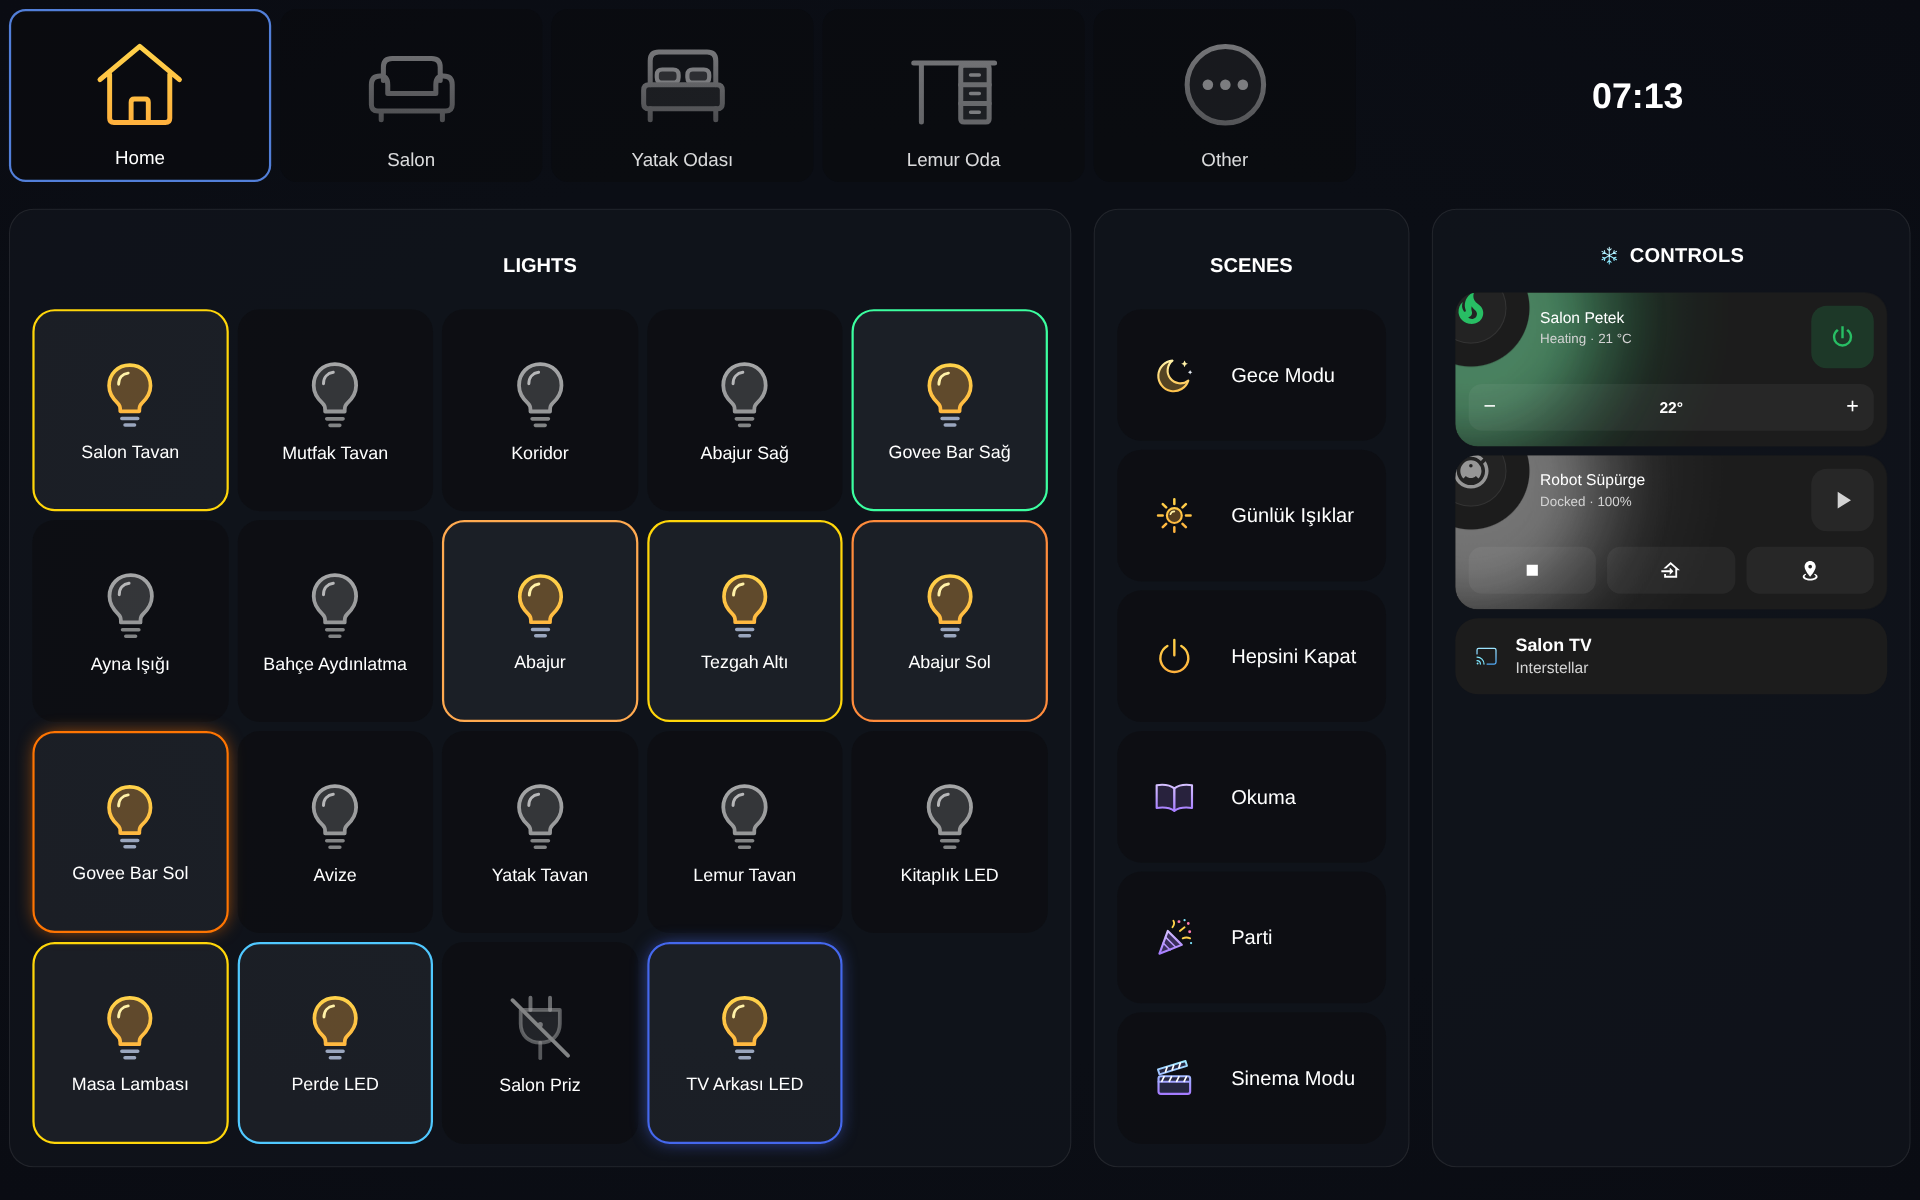
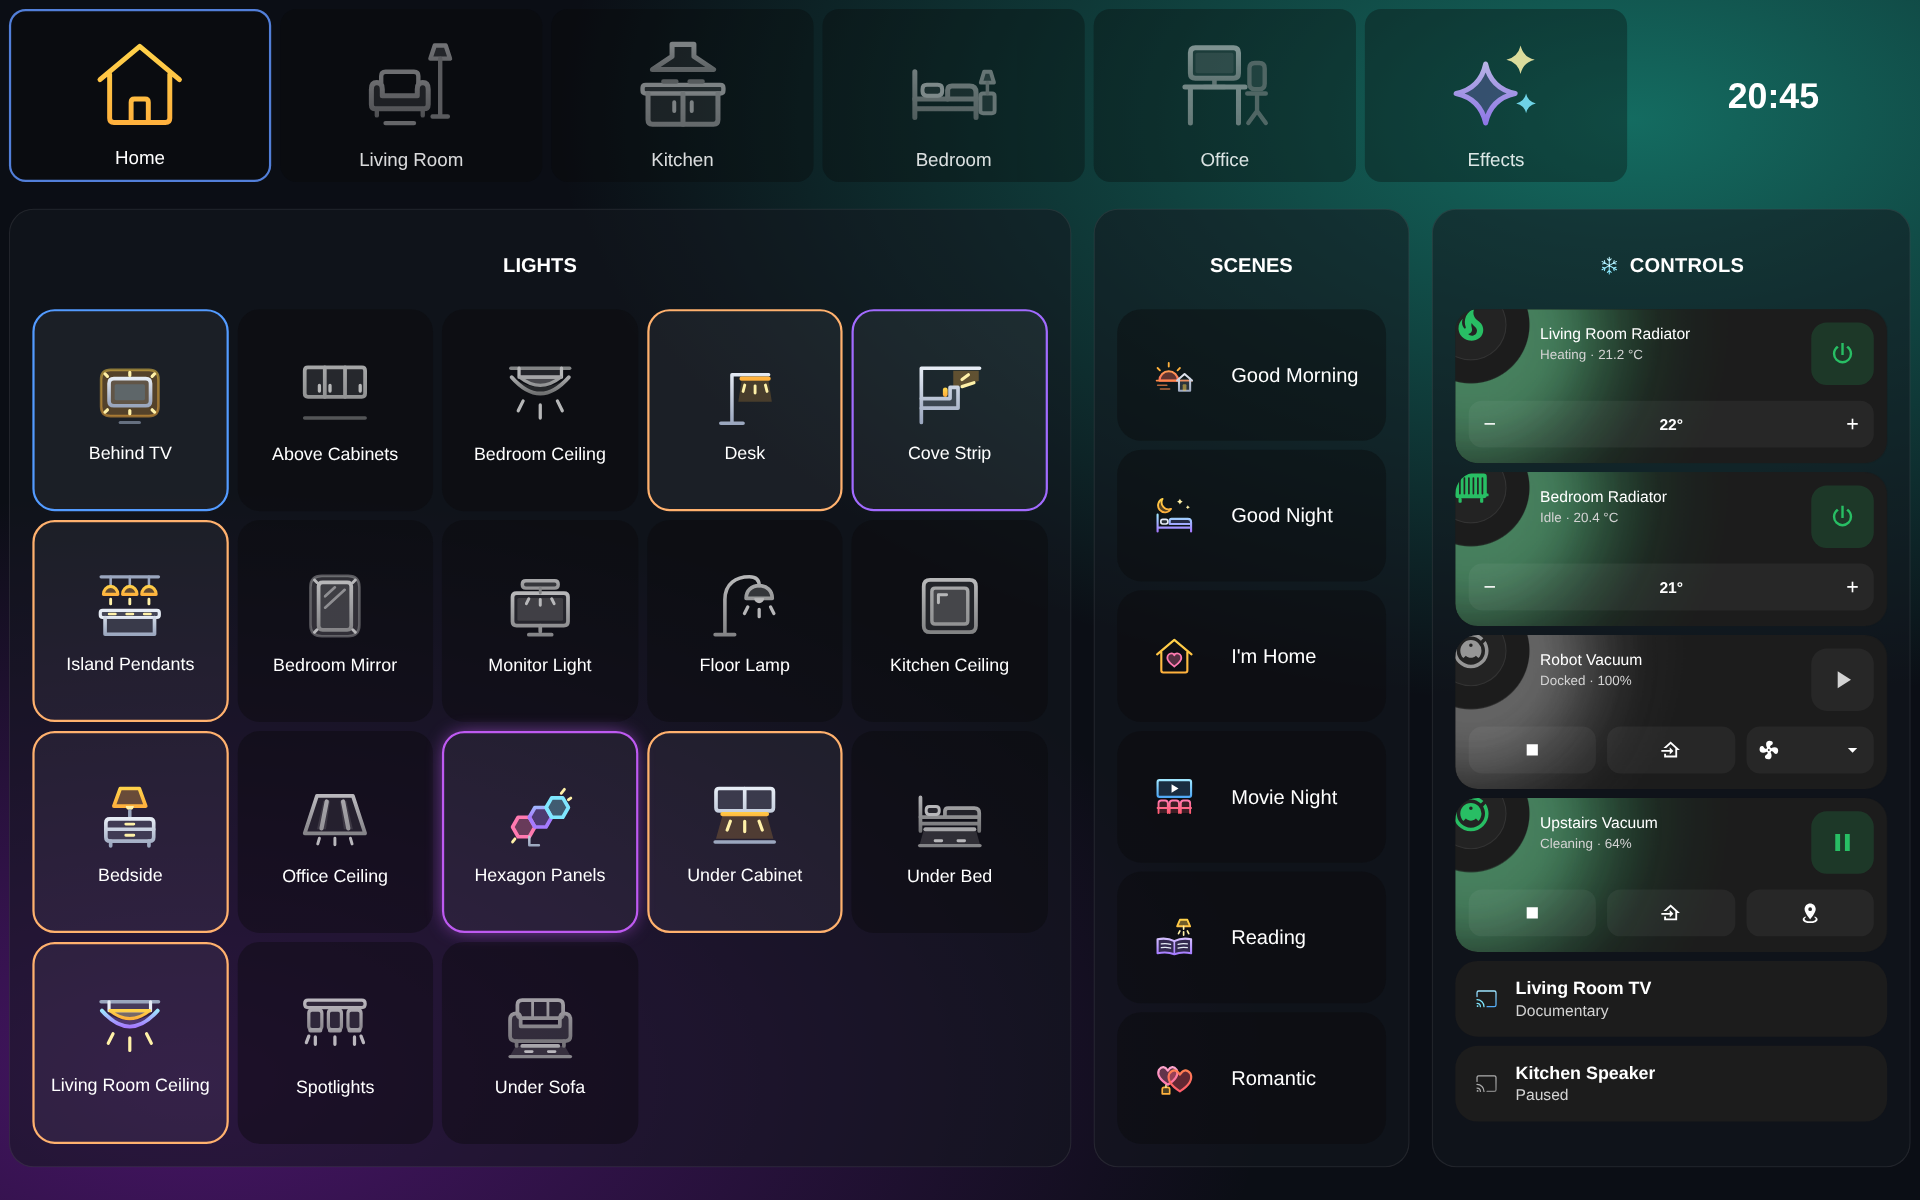
docs: görseller güncel sürümle yeniden çekildi, README'de Stil seç bölümü
- Bütün ekran görüntüleri ve hareketli görseller (TR ve EN) örnek evle: panoya özel renkli simgeler, senaryolar, iklim ve süpürgeler
- Telefon görseli üç ekran: altta kategoriler, sade iklim satırı, alttan ışık penceresi
- Yeni Otomatik kur görseli; Ayarlar görselinin yerine Stil seç
- README: görünüm ayarları Stil seç bölümünde, telefon seçenekleri Stil seç'te, arka plan varsayılanı Efekt

diff --git a/README.md b/README.md
@@ -150,22 +150,32 @@ Sol menüdeki **Lemur Home Dashboard** (yalnızca yöneticiler görür). Üstte 
 
 ### Ayarlar
 
-Sağ üstteki **Ayarlar** evdeki bütün tabletlere uygulanır:
+Sağ üstteki **Ayarlar** evdeki bütün tabletlere uygulanır. Görünümle ilgili olanlar (arka plan, ışık ve iklim görünümü, telefon düzeni, Efektler düğmesi) **Stil seç**'tedir; Ayarlar'daki kart oraya götürür.
 
 - *Sürüm ve güncelleme:* en üstte; yüklü sürüm, yenilikler ve **Güncellemeleri denetle**. Yeni sürüm varsa HACS ile buradan kurulur, ardından Home Assistant yeniden başlatılır.
 - *Dil:* otomatik (Home Assistant'ın dili), Türkçe ya da İngilizce.
 - *Mevsim:* iklim bölümünde yazın klimalar, kışın petekler. Otomatik: Mayıs-Eylül yaz.
-- *Arka plan:* koyu (varsayılan), siyah, istediğin bir renk, efekt renkleri ya da kendi resmin (`/local/zemin.jpg` gibi bir adres). Efekt renkleri Light Effect Card'ın efekt paletleri (Kutup ışığı, Ateş, Gün batımı, Okyanus, Galaksi ve 25 tane daha): koyu zeminde yumuşak bir renk ışıltısı. Light Effect Card kurulu olmasa da seçilebilir.
 - *Simge stili:* Otomatik (varsayılan; kapalı cihazlar ve seçili olmayan odalar gri, açıklar renkli), Renkli (hepsi renkli), Düz (hepsi gri) ya da Tek renk (çizimler tek tona çevrilir: kapalılar gri, açıklar seçtiğin renkte; istersen açık ışık lambanın kendi renginde, senaryo düğmesi kendi renginde). Simge seti ayrı bir dosyadır; bir kez indirilir, tarayıcı saklar.
-- *İklim ve süpürge kartları:* **Halo** (büyük, halkalı kartlar) ya da **Sade** (her cihaz tek satır: iklimde durum, sıcaklık ve hedef, süpürgede durum, pil, başlat ve istasyon; karta dokununca genişler: hedef − +, aç/kapat, mod, fan, salınım ya da durdur, bul, emiş gücü; yalnız cihazın desteklediği düğmeler görünür).
 - *Üst şerit:* Oda düğmelerinin boyutu (varsayılan 235 × 155) ve **Kolona hizala**: düğmeler seçilen kolonun sağ kenarında biter, aradaki alanı eşit paylaşır; her ekran boyutunda aynı hizada kalır. Light Effect Card kuruluysa Efektler düğmesi hizalı alana alınabilir ya da saatin yanında kalır.
 - *HA teması:* açılır pencerelerin kullanacağı Home Assistant teması (boş bırakılabilir).
 - *Üst barı gizle / Yan menüyü gizle:* yalnızca bu panoda Home Assistant'ın başlık çubuğu ve sol menüsü görünmez.
 - *Kanvas (Gelişmiş):* tasarım genişliği ve referans yüksekliği; pano ekrana bu oranla ölçeklenir.
 - *Işığa basılı tutunca:* Işık penceresi (varsayılan), HA penceresi ya da (Light Effect Card kuruluysa) efekt ekranı.
-- *Lemur Light Effect Card:* kurulu olup olmadığı ve üst şeritteki Efektler düğmesi.
+- *Lemur Light Effect Card:* kurulu olup olmadığı (Efektler düğmesi Stil seç'te).
 - *Sorun bildir:* sürüm ve cihaz bilgisiyle GitHub'da kayıt açar (oda, cihaz ya da kişi adı eklenmez).
 - *Yedek:* sekmeler, bölümler, ayarlar ve hayvanlar tek dosyada indirilir; geri yüklemeden önce onay sorulur.
+
+### Stil seç
+
+Üst çubukta, Ayarlar'ın yanında. Solda önizleme (kendi panon ya da örnek ev, tablet ya da telefon), sağda büyük seçenekler; her seçim önizlemede anında görünür, **Uygula** hepsini birden kaydeder. Sekmelere dokunmaz, beğenmezsen geri al.
+
+- *Tablet:* ışıklar **Karo** ya da **Kaydırmalı çubuk**; iklim ve süpürge kartları **Halo** (büyük, halkalı kartlar) ya da **Sade** (her cihaz tek satır; karta dokununca genişler: hedef − +, aç/kapat, mod, fan, salınım ya da durdur, bul, emiş gücü).
+- *Telefon:* gezinme (altta kategoriler, altta odalar, üstte odalar), ışıklar (tabletteki gibi, karo, tek sıra) ve ışık penceresinin alttan mı ortada mı açılacağı.
+- *Arka plan:* Efekt renkleri (varsayılan Meditasyon; Kutup ışığı, Ateş, Gün batımı, Okyanus ve 25 tane daha), Koyu, Siyah, istediğin bir renk ya da kendi resmin (`/local/zemin.jpg` gibi bir adres).
+- *Işık efektleri:* Light Effect Card kuruluysa Efektler düğmesi açılıp kapanır; kurulu değilse ne işe yaradığı ve nasıl kurulduğu anlatılır.
+- **Işık penceresi** düğmesi önizlemede bir ışığın penceresini açar.
+
+![Stil seç](https://raw.githubusercontent.com/mendebur-lemur/lemur-home-dashboard/main/docs/images/tr/settings.png)
 
 ## Işık penceresi
 
@@ -183,7 +193,7 @@ Pencere geri tuşu, Esc ya da ✕ ile kapanır. Ayarlardan Home Assistant'ın ke
 
 Ekran 700 pikselden darsa, telefon yatay tutulmuşsa (yükseklik 500 pikselden az) ya da tablet dikey tutulmuşsa pano telefon düzenine geçer: oda düğmeleri yana kayan bir şerit olur, bölümler alt alta dizilir, senaryolar iki sütunda durur, sayfa aşağı kayar. Karo sayısı ekranın genişliğine göre artar (telefonda 3, dikey tablette 6). Işık bölümünü **Telefonda otomatik** yaparsan telefonda ışıklar iki sütun kaydırmalı çubuk olur. Ayrı bir pano gerekmez; aynı pano tablette tablet, telefonda telefon düzeniyle açılır.
 
-**Ayarlar → Telefon** seçenekleri birbirinden bağımsızdır, istediğin birleşimi seçebilirsin. Tablet hiçbirinden etkilenmez:
+**Stil seç → Telefon** seçenekleri birbirinden bağımsızdır, istediğin birleşimi seçebilirsin. Tablet hiçbirinden etkilenmez:
 
 - *Gezinme:* **Altta kategoriler** (varsayılan), **Altta odalar** (oda düğmeleri ekranın altında, uygulama gibi; üstte sekmenin adı ve saat) ya da **Üstte odalar** (yukarıdaki eski düzen). **Altta kategoriler** (altta Işıklar, İklim, Senaryolar ve Light Effect Card kuruluysa Efektler). Kategori sayfası bütün sekmelerin o türdeki bölümlerini sekme adlarıyla tek sayfada gösterir. Işıklarda üstte oda şeridi vardır; odalar arasında sağa sola kaydırarak geçilir, **Tümü** bütün evin ışıklarıdır (aynı lamba iki sekmede varsa bir kez).
 - *Işıklar:* **Bölümdeki gibi**, hep **Karo** ya da **Tek sıra** (her ışık bir satır: dokun aç/kapat, sağa sola kaydır parlaklık).
@@ -191,13 +201,13 @@ Ekran 700 pikselden darsa, telefon yatay tutulmuşsa (yükseklik 500 pikselden a
 
 Bu seçenekler yönetim panelindeki **Telefon** önizlemesinde de görünür.
 
-<img src="https://raw.githubusercontent.com/mendebur-lemur/lemur-home-dashboard/main/docs/images/tr/phone.png" alt="Telefon düzeni" width="320">
+![Telefon: altta kategoriler, sade iklim satırları, alttan açılan ışık penceresi](https://raw.githubusercontent.com/mendebur-lemur/lemur-home-dashboard/main/docs/images/tr/phone.png)
 
 ## Işık efektleri (isteğe bağlı)
 
 [Lemur Light Effect Card](https://github.com/mendebur-lemur/lemur-light-effect-card) ayrıca kuruluysa pano onu kendiliğinden tanır, yönetim paneli de ilk açılışta haber verir:
 
-- **Üst şeritte Efektler:** Oda düğmelerinin yanına kendiliğinden gelir; dokununca efekt ekranı o sekmenin odasıyla tam ekran açılır. Ayarlardan kapatılabilir.
+- **Üst şeritte Efektler:** Oda düğmelerinin yanına kendiliğinden gelir; dokununca efekt ekranı o sekmenin odasıyla tam ekran açılır. Stil seç'ten kapatılabilir.
 - **Efekt ekranı düğmesi:** İstersen senaryo bölümüne de eklenir.
 - **Efekt düğmeleri:** Senaryoya düğme eklerken seçicide **Işık efektleri** grubunda odanın efektleri listelenir; seçilen efekt tek dokunuşla başlar. **Efekti durdur** düğmesi de eklenebilir.
 - **Oynayan efekt görünür:** Odada efekt oynarken o odanın ışık karoları efektin renkleriyle parlar, efektin düğmesi yanar.
@@ -228,8 +238,8 @@ Pano, tarayıcının ve telefon uygulamasının sakladığı eski sayfa kopyalar
 | Ev sekmesi | Oda sekmesi |
 |---|---|
 | ![Ev sekmesi](https://raw.githubusercontent.com/mendebur-lemur/lemur-home-dashboard/main/docs/images/tr/dashboard.png) | ![Oda sekmesi](https://raw.githubusercontent.com/mendebur-lemur/lemur-home-dashboard/main/docs/images/tr/room.png) |
-| **Yönetim paneli** | **Ayarlar** |
-| ![Yönetim paneli](https://raw.githubusercontent.com/mendebur-lemur/lemur-home-dashboard/main/docs/images/tr/admin.png) | ![Ayarlar](https://raw.githubusercontent.com/mendebur-lemur/lemur-home-dashboard/main/docs/images/tr/settings.png) |
+| **Yönetim paneli** | **Otomatik kur** |
+| ![Yönetim paneli](https://raw.githubusercontent.com/mendebur-lemur/lemur-home-dashboard/main/docs/images/tr/admin.png) | ![Otomatik kur](https://raw.githubusercontent.com/mendebur-lemur/lemur-home-dashboard/main/docs/images/tr/auto-setup.png) |
 
 ## Lemur ailesi
 

diff --git a/README.en.md b/README.en.md
@@ -150,22 +150,32 @@ Lights that are on get a frame in their own colour; unavailable devices are dimm
 
 ### Settings
 
-**Settings** at the top right apply to every tablet in the house:
+**Settings** at the top right apply to every tablet in the house. The look settings (background, light and climate look, phone layout, the Effects button) are in **Choose a style**; the card in Settings takes you there.
 
 - *Version and updates:* at the top; installed version, what's new and **Check for updates**. A new version is installed from here through HACS, then Home Assistant restarts.
 - *Language:* automatic (Home Assistant's language), Turkish or English.
 - *Season:* air conditioners in summer, radiators in winter in the climate section. Automatic: May-September is summer.
-- *Background:* dark (default), black, any colour, effect colours, or your own image (an address like `/local/background.jpg`). Effect colours are Light Effect Card's effect palettes (Aurora, Fire, Sunset, Ocean, Galaxy and 25 more): a soft colour glow on a dark background. They can be chosen even without Light Effect Card.
 - *Icon style:* Automatic (default; devices that are off and rooms that are not selected are grey, the rest colourful), Colourful (all colourful), Flat (all grey) or Single colour (the drawings turn into one tone: devices that are off are grey, devices that are on are in the colour you pick; optionally a light that is on shows the lamp's own colour, and a scene button its own colour). The icon set is a separate file, downloaded once and kept by the browser.
-- *Climate and vacuum cards:* **Halo** (the large cards with a ring) or **Simple** (each device one row: for climate the status, temperature and target, for vacuums the status, battery, start and dock; tap the card to expand it: target − +, power, mode, fan, swing or stop, locate, suction; only the buttons the device supports are shown).
 - *Top bar:* Room button size (default 235 × 155) and **Align to a column**: the buttons end at the right edge of the chosen column and share the space evenly; they stay aligned on every screen size. With Light Effect Card installed, the Effects button can join the aligned area or stay next to the clock.
 - *HA theme:* the Home Assistant theme used by dialogs (can be left empty).
 - *Hide top bar / Hide sidebar:* Home Assistant's header and sidebar are hidden on this dashboard only.
 - *Canvas (Advanced):* design width and reference height; the dashboard scales to the screen with this ratio.
 - *Holding a light:* Light window (default), HA dialog or (with Light Effect Card) the effect screen.
-- *Lemur Light Effect Card:* whether it is installed, and the Effects button in the top bar.
+- *Lemur Light Effect Card:* whether it is installed (the Effects button is in Choose a style).
 - *Report a problem:* opens a GitHub issue with the version and device details (no room, device or person names).
 - *Backup:* tabs, sections, settings and pets in one file; restoring asks first.
+
+### Choose a style
+
+In the top bar, next to Settings. A preview on the left (your own dashboard or the example home, tablet or phone), large options on the right; every choice shows in the preview right away, and **Apply** saves them all at once. Your tabs are not touched, and undo takes it back.
+
+- *Tablet:* lights as **Tiles** or **Slider bars**; climate and vacuum cards **Halo** (the large cards with a ring) or **Simple** (each device one row; tap the card to expand it: target − +, power, mode, fan, swing or stop, locate, suction).
+- *Phone:* navigation (categories at the bottom, rooms at the bottom, rooms on top), lights (same as tablet, tiles, one per row) and whether the light window opens from the bottom or in the middle.
+- *Background:* effect colours (Meditation by default; Aurora, Fire, Sunset, Ocean and 25 more), Dark, Black, any colour or your own image (an address like `/local/background.jpg`).
+- *Light effects:* with Light Effect Card installed, the Effects button is turned on or off; without it, this explains what the card does and how to install it.
+- The **Light window** button opens a light's window in the preview.
+
+![Choose a style](https://raw.githubusercontent.com/mendebur-lemur/lemur-home-dashboard/main/docs/images/settings.png)
 
 ## Light window
 
@@ -183,7 +193,7 @@ The window closes with the back button, Esc or ✕. You can switch to Home Assis
 
 When the screen is narrower than 700 pixels, a phone is held sideways (less than 500 pixels high) or a tablet is held upright, the dashboard switches to its phone layout: room buttons become a strip that scrolls sideways, sections stack, scenes sit in two columns and the page scrolls. The number of tiles per row grows with the width (3 on a phone, 6 on an upright tablet). Set a lights section to **Auto on phone** and its lights become two columns of slider bars on a phone. No separate dashboard needed; the same dashboard opens in tablet layout on a tablet and phone layout on a phone.
 
-The **Settings → Phone** options are independent of each other, so any combination can be chosen. Tablets are not affected:
+The **Choose a style → Phone** options are independent of each other, so any combination can be chosen. Tablets are not affected:
 
 - *Navigation:* **Categories at the bottom** (default), **Rooms at the bottom** (room buttons at the bottom of the screen, like an app; the tab name and clock on top) or **Rooms on top** (the old layout above). **Categories at the bottom** (Lights, Climate, Scenes and, with Light Effect Card installed, Effects). A category page shows the sections of that kind from every tab on one page, under the tab names. Lights have a room strip on top; swipe left and right to move between rooms, and **All** shows every light in the home (a lamp on two tabs appears once).
 - *Lights:* **As in the section**, always **Tiles** or **One per row** (each light a row: tap to toggle, swipe for brightness).
@@ -191,13 +201,13 @@ The **Settings → Phone** options are independent of each other, so any combina
 
 These options also show in the **Phone** preview of the admin panel.
 
-<img src="https://raw.githubusercontent.com/mendebur-lemur/lemur-home-dashboard/main/docs/images/phone.png" alt="Phone layout" width="320">
+![Phone: categories at the bottom, simple climate rows, light window from the bottom](https://raw.githubusercontent.com/mendebur-lemur/lemur-home-dashboard/main/docs/images/phone.png)
 
 ## Light effects (optional)
 
 If [Lemur Light Effect Card](https://github.com/mendebur-lemur/lemur-light-effect-card) is installed too, the dashboard recognizes it on its own, and the admin panel tells you on first open:
 
-- **Effects in the top bar:** Appears next to the room buttons on its own; tap it and the effect screen opens full screen for that tab's room. Can be turned off in the settings.
+- **Effects in the top bar:** Appears next to the room buttons on its own; tap it and the effect screen opens full screen for that tab's room. Can be turned off in Choose a style.
 - **Effect screen button:** Can also be added to a scene section.
 - **Effect buttons:** When adding a button to a scene section, the room's effects are listed in the **Light effects** group of the picker; the chosen effect starts with one tap. A **Stop effect** button can be added too.
 - **The playing effect shows:** While an effect plays in a room, that room's light tiles glow in the effect's colours and the effect's button lights up.
@@ -228,8 +238,8 @@ The dashboard clears the old page copies kept by the browser and the phone app b
 | Home tab | Room tab |
 |---|---|
 | ![Home tab](https://raw.githubusercontent.com/mendebur-lemur/lemur-home-dashboard/main/docs/images/dashboard.png) | ![Room tab](https://raw.githubusercontent.com/mendebur-lemur/lemur-home-dashboard/main/docs/images/room.png) |
-| **Admin panel** | **Settings** |
-| ![Admin panel](https://raw.githubusercontent.com/mendebur-lemur/lemur-home-dashboard/main/docs/images/admin.png) | ![Settings](https://raw.githubusercontent.com/mendebur-lemur/lemur-home-dashboard/main/docs/images/settings.png) |
+| **Admin panel** | **Auto setup** |
+| ![Admin panel](https://raw.githubusercontent.com/mendebur-lemur/lemur-home-dashboard/main/docs/images/admin.png) | ![Auto setup](https://raw.githubusercontent.com/mendebur-lemur/lemur-home-dashboard/main/docs/images/auto-setup.png) |
 
 ## The Lemur family
 
